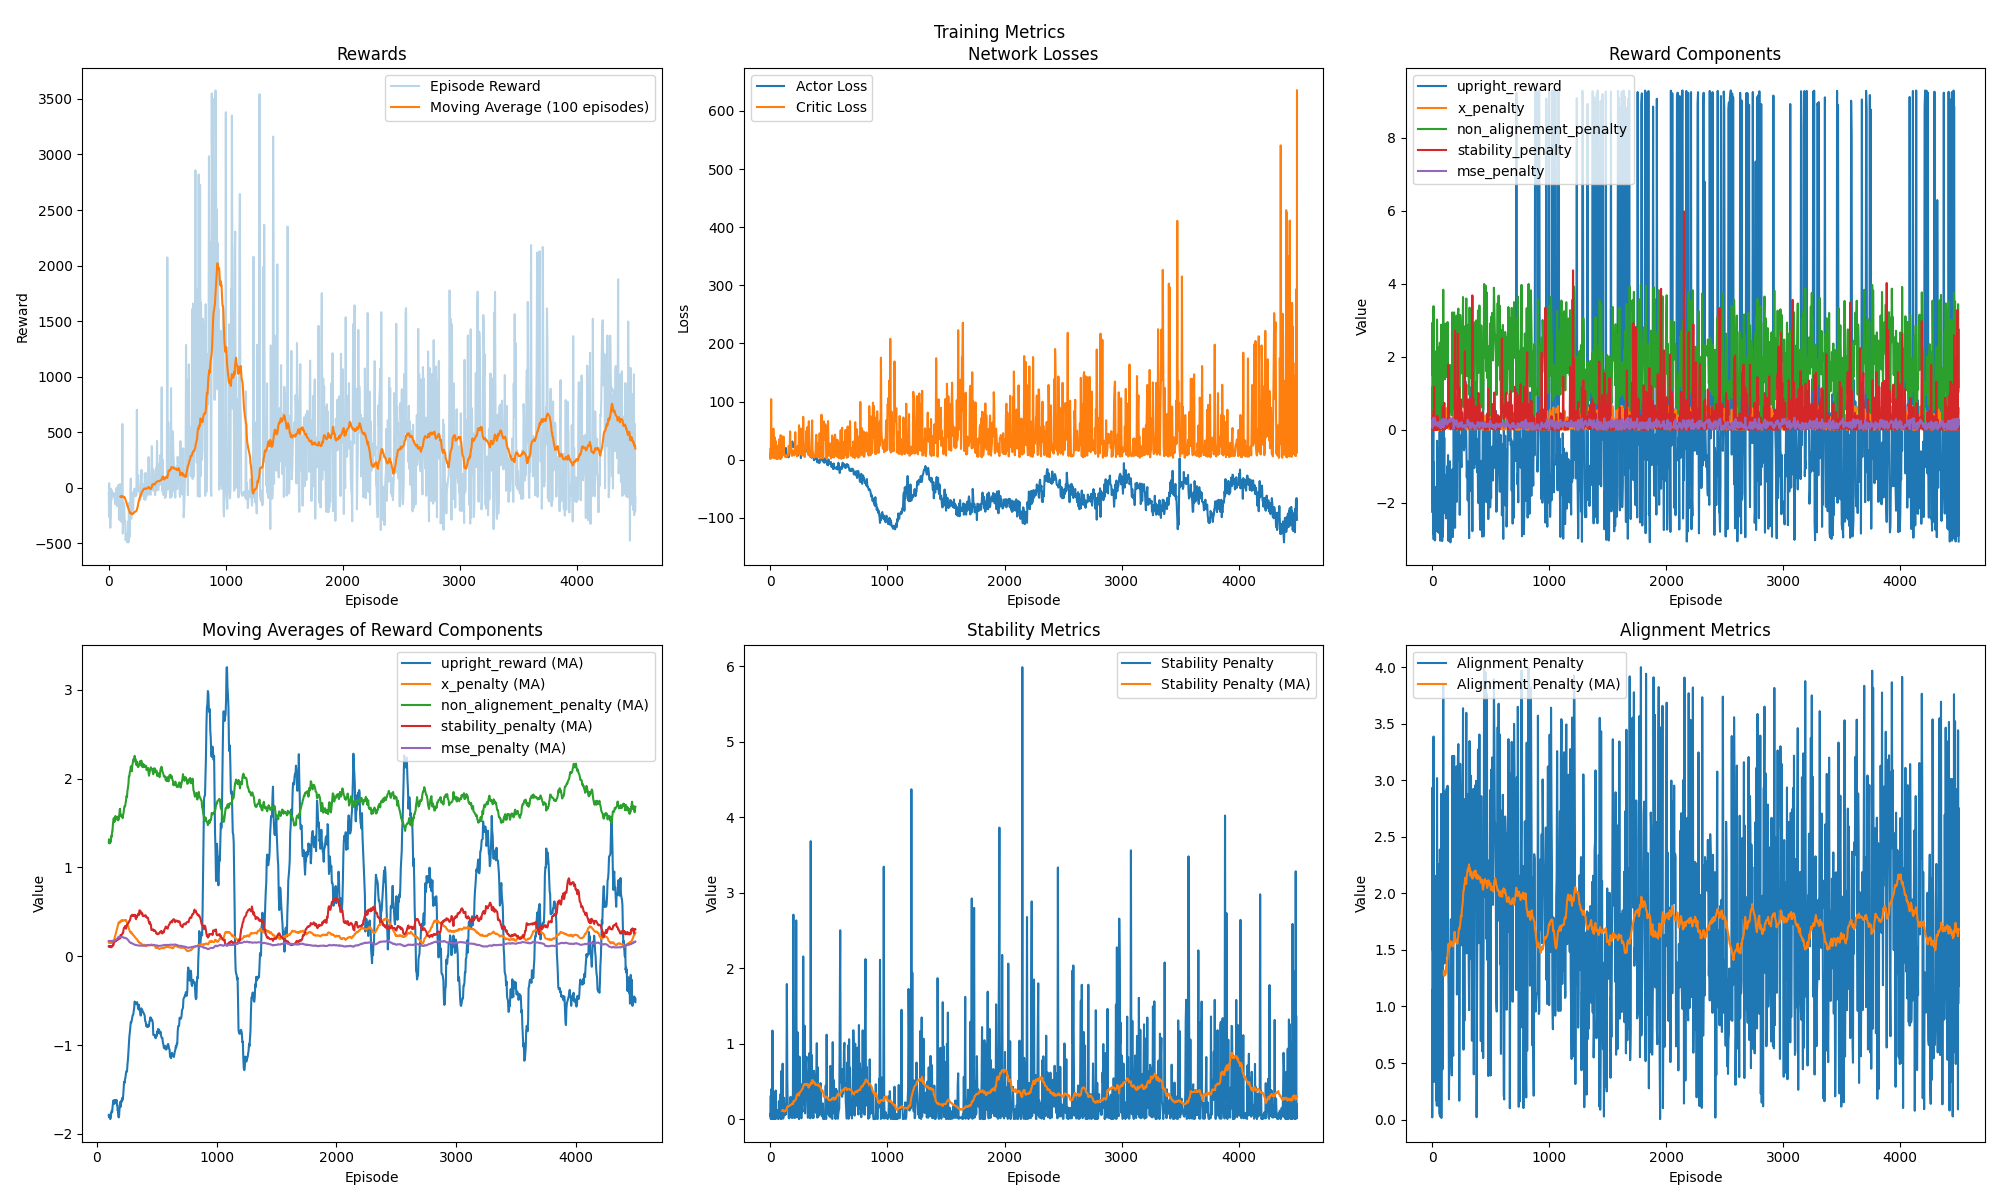
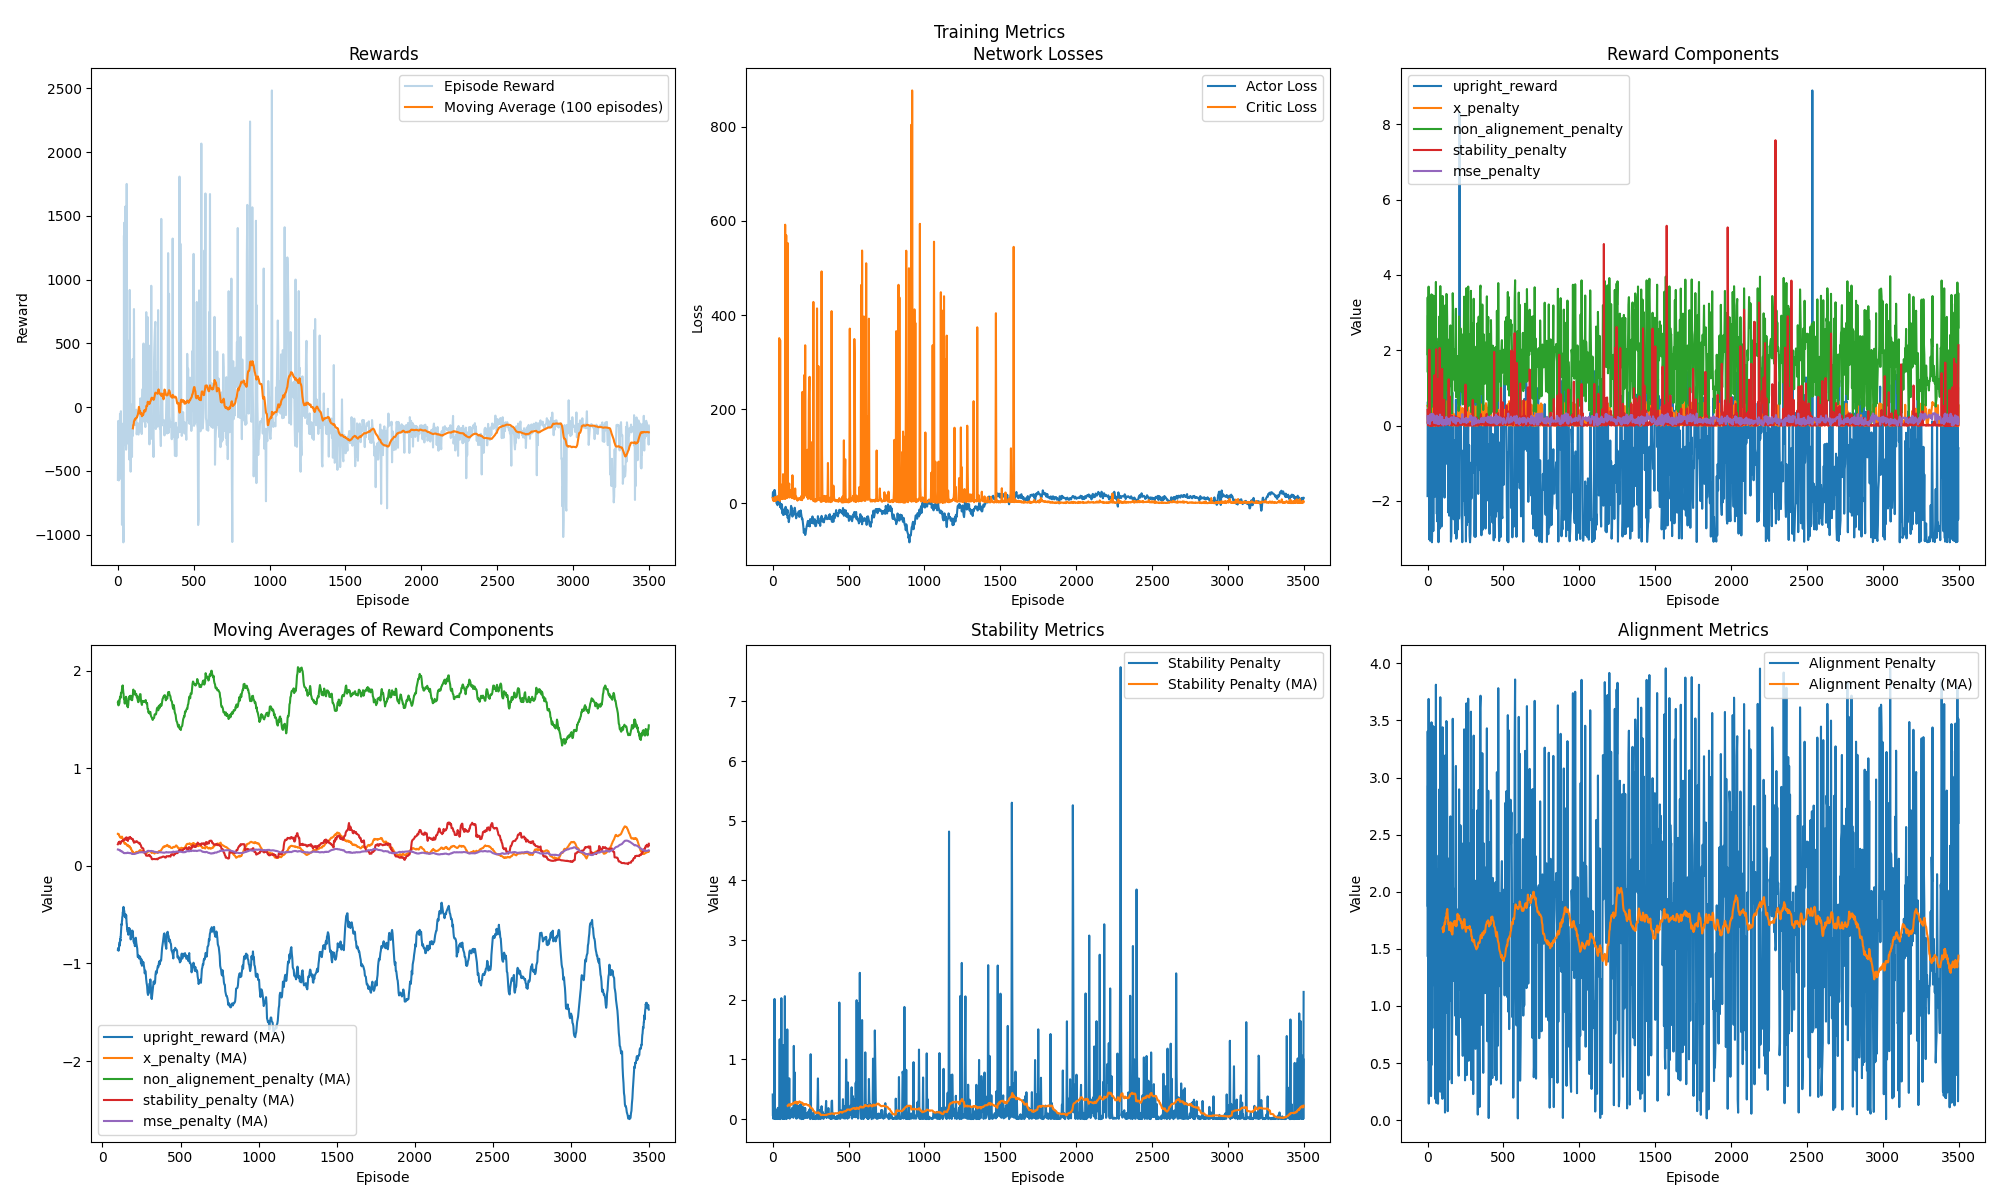
checkpoint Actor critic 2

diff --git a/tp_env.py b/tp_env.py
@@ -9,7 +9,7 @@ from config import config
 import sys
 
 GRAVITY = config['gravity']
-DT = 0.01
+DT = 0.005
 
 class TriplePendulumEnv:
     def __init__(self, reward_manager=None, render_mode=None, num_nodes=config['num_nodes'], arm_length=1./3, bob_mass=0.01/3, friction_coefficient=config['friction_coefficient']):
@@ -139,7 +139,7 @@ class TriplePendulumEnv:
     def reset(self):
         # Initialisation de l'état
         position_initiale_chariot = 0.0
-        rd_angle = -pi/2 + rd.uniform(-0.3, 0.3)
+        rd_angle = pi/2
         angles_initiaux = [rd_angle] + [rd_angle] * (len(self.positions) - 2)
         vitesses_initiales = 0.0
         state = hstack((
@@ -562,7 +562,7 @@ class TriplePendulumEnv:
                 self.screen.blit(epsilon_text, (20, 95))
         
         pygame.display.flip()
-        self.clock.tick(60)
+        self.clock.tick(120)
         
         return True
 

diff --git a/reward.py b/reward.py
@@ -36,7 +36,7 @@ class RewardManager:
         # -----------------------
         # Real Reward Components
         # -----------------------
-        self.threshold_ratio = 0.95  # 60% of pendulum length (as per the formula)
+        self.threshold_ratio = 0.90  # 60% of pendulum length (as per the formula)
         self.time_over_threshold = 0
         self.prev_output = None
         self.output_deltas = []

diff --git a/train.py b/train.py
@@ -56,7 +56,7 @@ class TriplePendulumTrainer:
         self.full_plot_frequency = plot_config.get('full_plot_frequency', 1000)
         
         self.total_steps = 0
-        self.max_steps = 500  # Maximum steps per episode
+        self.max_steps = 1_000  # Maximum steps per episode
         
         # Exploration parameters
         self.epsilon = 1.0  # Initial random action probability

diff --git a/config.py b/config.py
@@ -9,7 +9,7 @@ config = {
     'updates_per_episode': 10,
     'load_models': True,
     'num_nodes': 2,
-    'gravity': 1.81,
+    'gravity': 9.81,
     'friction_coefficient': 0.1,
     
     # Options de visualisation et de plots
